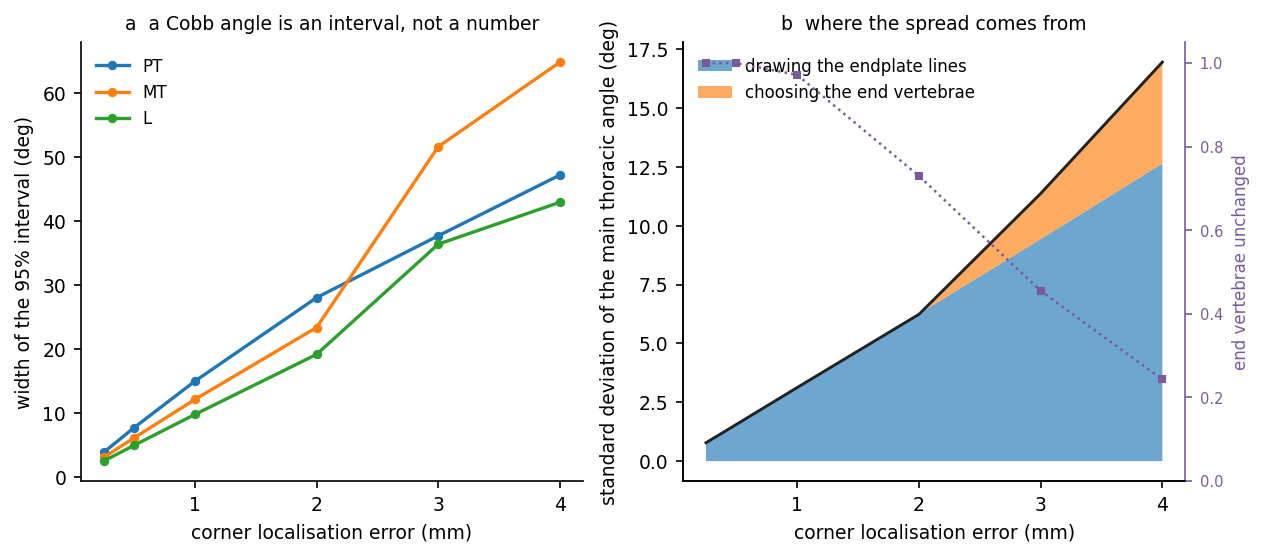
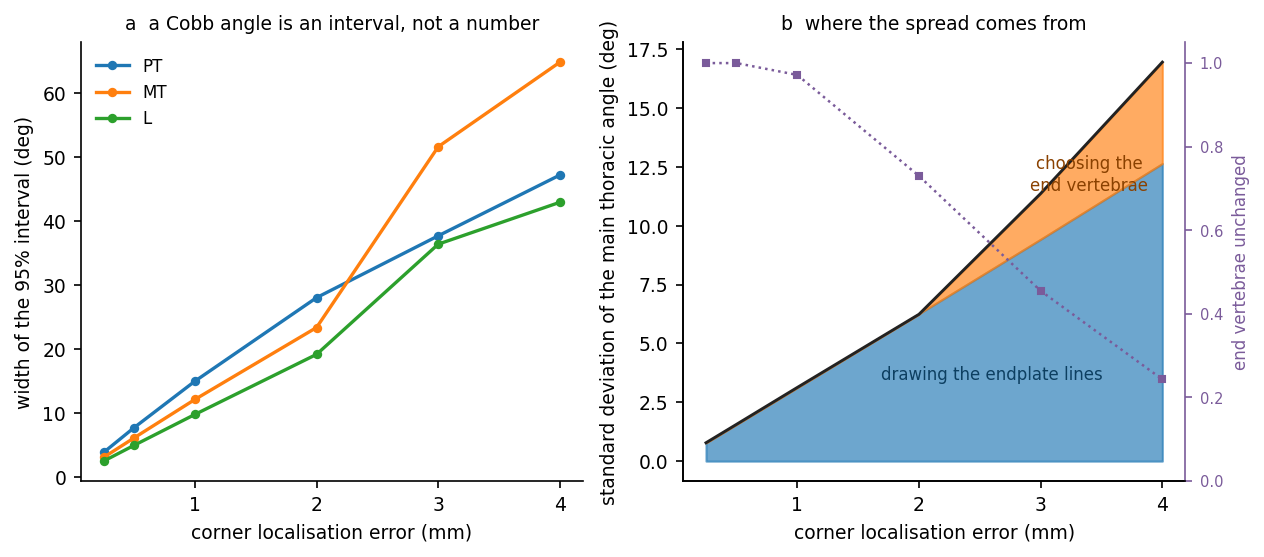
Label figure 7b's bands in place, off the stability trace
The legend could only sit top left, which is where the end-vertebra stability
trace starts, so the two printed over each other and neither could be read.
The bands are named where they are instead, in darker shades of their own
fills, and the trace keeps the colour-matched right-hand axis it already had
rather than a second tag saying the same thing.

The end-vertebra label is set on two lines and centred at 3.4 mm: on one line
it either ran past the right spine or reached back to where the trace crosses
the wedge.

diff --git a/tools/make_figures.py b/tools/make_figures.py
@@ -155,13 +155,29 @@ def figure_uncertainty(out: Path) -> None:
     stability = [
         next(u for u in sampled[s] if u.name == "MT").end_vertebra_stability for s in sigmas
     ]
-    axes[1].fill_between(sigmas, 0, endplate, alpha=0.65, label="drawing the endplate lines")
-    axes[1].fill_between(sigmas, endplate, total, alpha=0.65, label="choosing the end vertebrae")
+    axes[1].fill_between(sigmas, 0, endplate, alpha=0.65, color="#1f77b4")
+    axes[1].fill_between(sigmas, endplate, total, alpha=0.65, color="#ff7f0e")
     axes[1].plot(sigmas, total, color="#222222", lw=1.4)
     axes[1].set_xlabel("corner localisation error (mm)")
     axes[1].set_ylabel("standard deviation of the main thoracic angle (deg)")
     axes[1].set_title("b  where the spread comes from")
-    axes[1].legend(fontsize=8, frameon=False, loc="upper left")
+
+    # Label the bands where they are rather than in a legend. A legend here
+    # can only go top left, which is where the stability trace starts, and the
+    # two printed on top of each other.
+    axes[1].text(
+        2.6, float(np.interp(2.6, sigmas, endplate)) * 0.45,
+        "drawing the endplate lines",
+        fontsize=8, color="#0d3f61", ha="center", va="center",
+    )
+    orange_at = 3.4
+    axes[1].text(
+        orange_at,
+        0.5 * (float(np.interp(orange_at, sigmas, endplate))
+               + float(np.interp(orange_at, sigmas, total))),
+        "choosing the" + NL + "end vertebrae",
+        fontsize=8, color="#8a4100", ha="center", va="center", linespacing=1.3,
+    )
 
     twin = axes[1].twinx()
     twin.plot(sigmas, stability, color="#7a5b9a", lw=1.2, ls=":", marker="s", ms=3)
